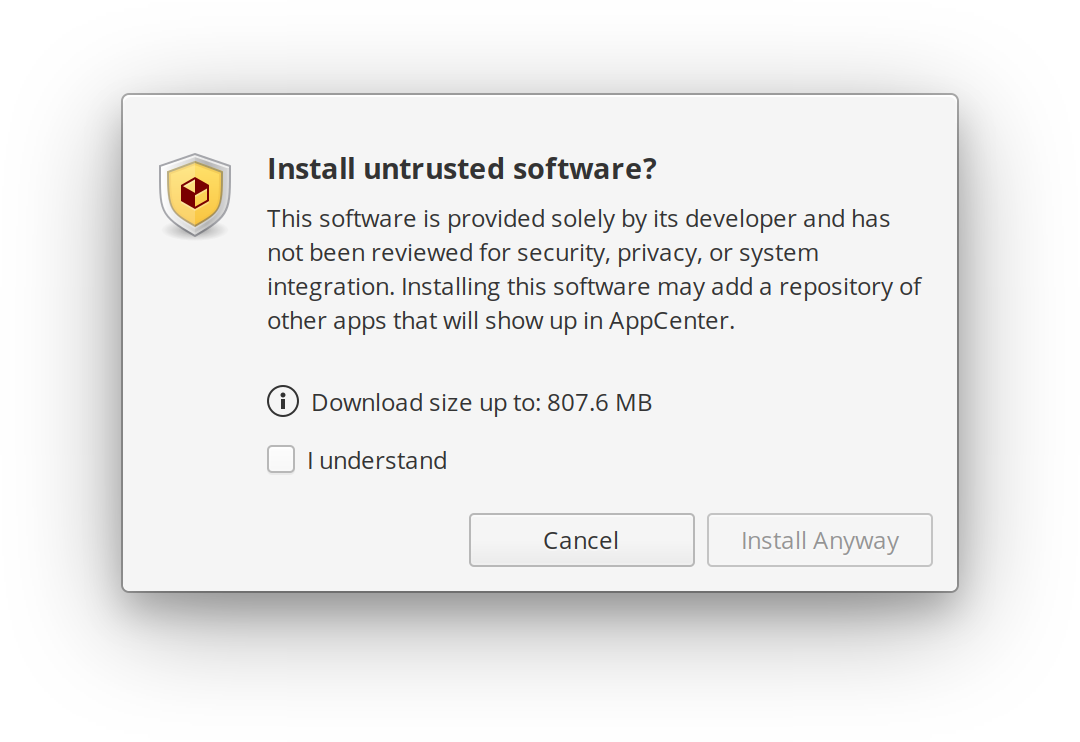
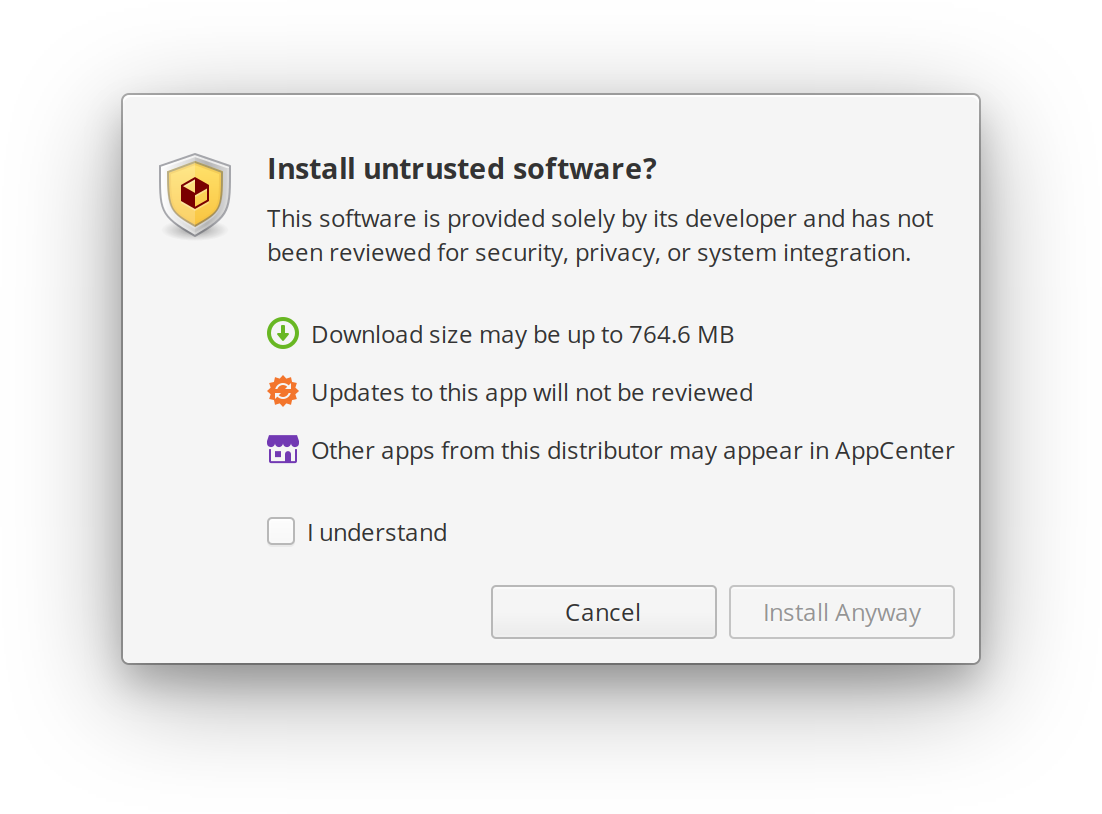
Only display extra remotes message if needed (#56)
* Display implications as bullets
* Add colors
* Update screenshot

Changed region(s): [[0.2444, 0.186, 0.8556, 0.6819], [0.0917, 0.124, 0.9167, 0.8369], [0.1222, 0.093, 0.8556, 0.124]]

diff --git a/data/colors.css b/data/colors.css
@@ -1,0 +1,28 @@
+/*
+ * Copyright (c) 2019 elementary, Inc. (https://elementary.io)
+ *
+ * This program is free software: you can redistribute it and/or modify
+ * it under the terms of the GNU General Public License as published by
+ * the Free Software Foundation, either version 3 of the License, or
+ * (at your option) any later version.
+ *
+ * This program is distributed in the hope that it will be useful,
+ * but WITHOUT ANY WARRANTY; without even the implied warranty of
+ * MERCHANTABILITY or FITNESS FOR A PARTICULAR PURPOSE.  See the
+ * GNU General Public License for more details.
+ *
+ * You should have received a copy of the GNU General Public License
+ * along with this program.  If not, see <http://www.gnu.org/licenses/>.
+ */
+
+.appcenter {
+    color: @GRAPE_700;
+}
+
+.downloads {
+    color: @LIME_500;
+}
+
+.updates {
+    color: @ORANGE_500;
+}
